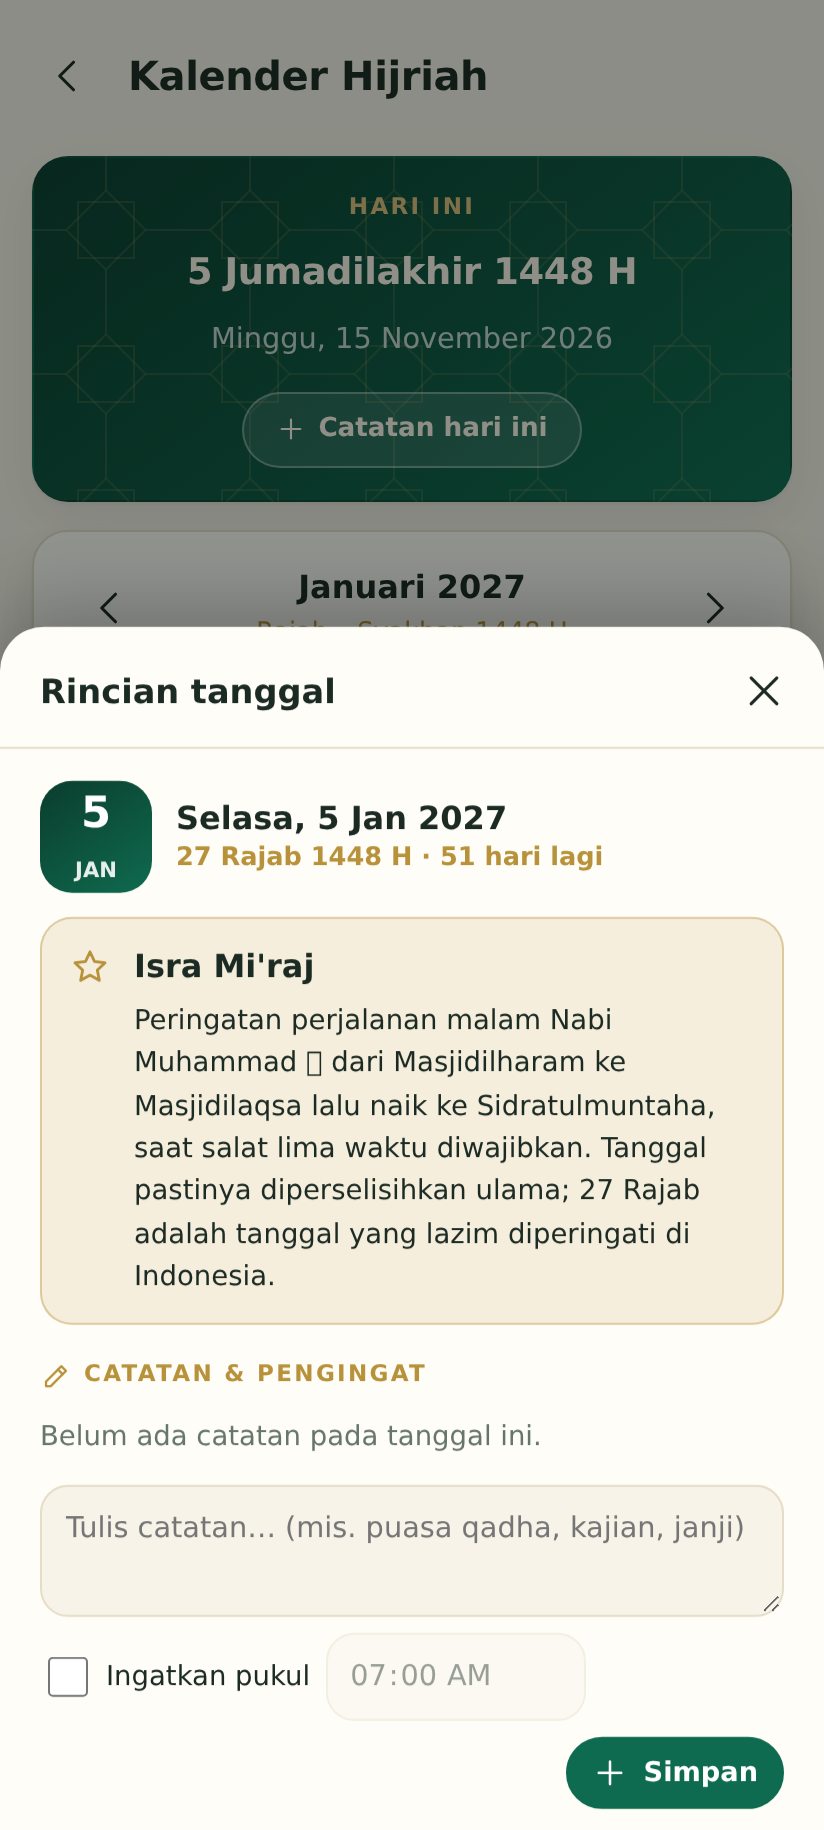
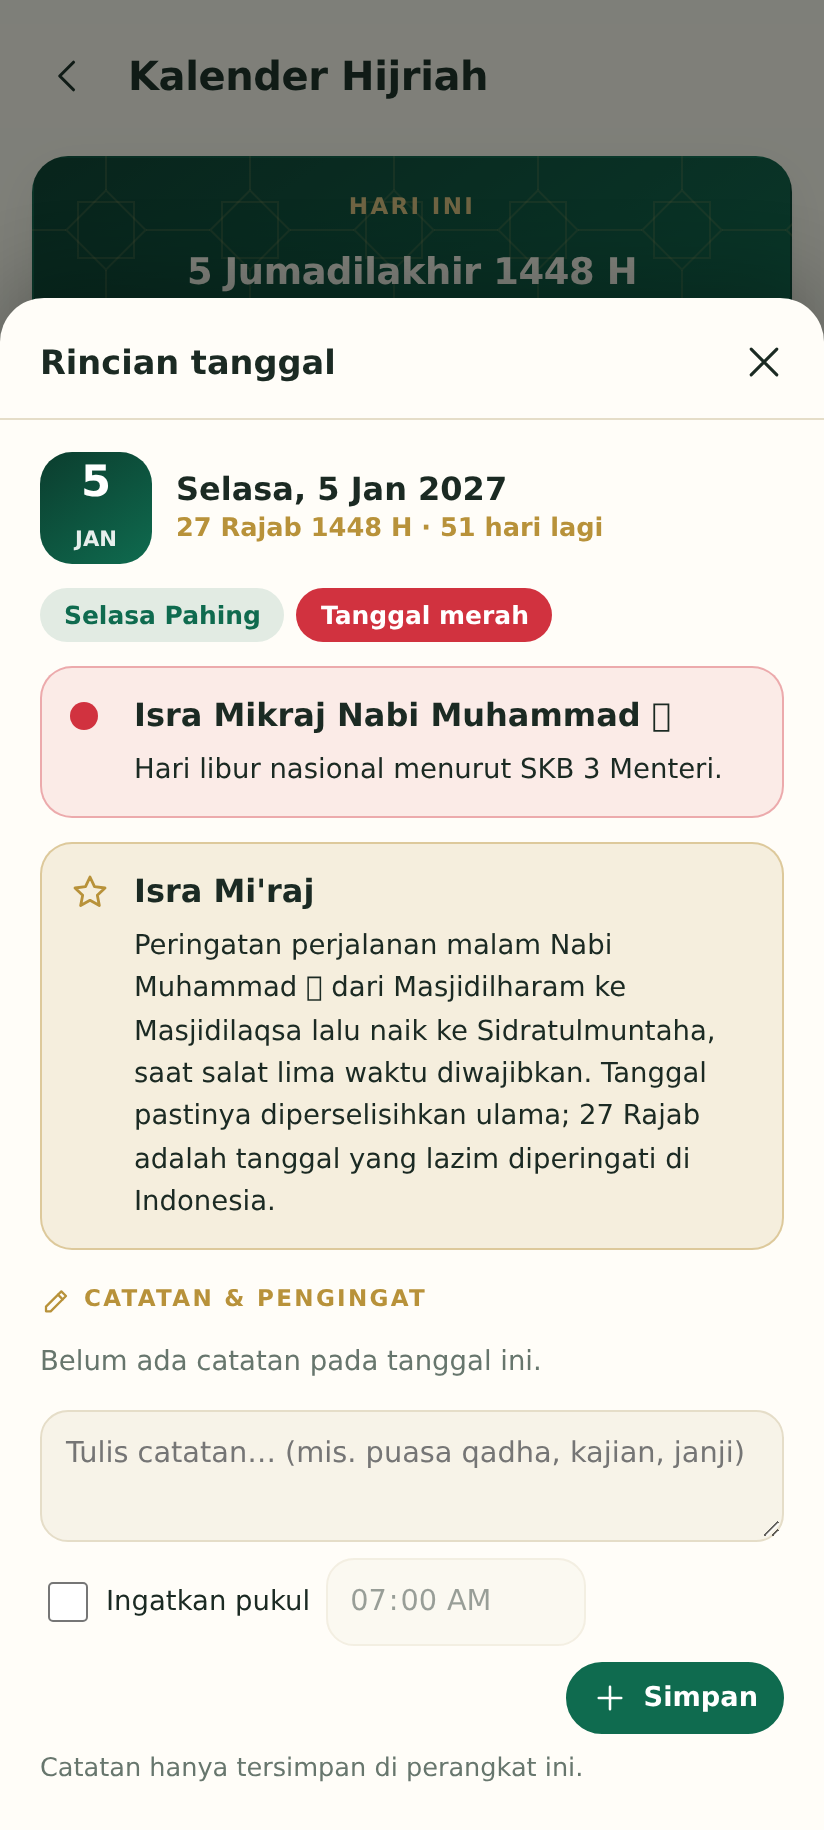
1.3.15: kalender — tanggal merah (SKB 2026/2027), cuti bersama 2027, pasaran Jawa

diff --git a/src/pages/calendar.js b/src/pages/calendar.js
@@ -6,6 +6,8 @@ import { getSettings } from '../services/storage.js'
 import { dayKey, notesOf, noteDays, saveNote, deleteNote } from '../services/calendar-notes.js'
 import { requestNotifPermission, notifPermission, notifSupported } from '../services/notification.js'
 import { toHijri, HIJRI_MONTHS, islamicDayOf, dayNotes, formatHijri } from '../utils/hijri.js'
+import { weton, pasaranOf } from '../utils/javanese.js'
+import { holidayOf, hasOfficial } from '../data/libur-nasional.js'
 import { formatGregorian } from '../utils/format.js'
 import { $, esc, toast } from '../utils/helpers.js'
 
@@ -57,30 +59,36 @@ export default function calendar(root) {
       const h = toHijri(date, adj)
       const ev = islamicDayOf(h)
       const mark = marks[key]
-      if (ev) events.push({ d, h, name: ev.name, key })
+      const hol = holidayOf(date, adj)
+      const red = date.getDay() === 0 || (hol && hol.type === 'libur')
+      if (hol) events.push({ d, key, name: hol.name, sub: hol.type === 'cuti' ? 'Cuti bersama' : hol.official ? 'Libur nasional' : 'Libur nasional (perkiraan)', cls: hol.type === 'cuti' ? 'cuti' : 'red' })
+      if (ev) events.push({ d, key, name: ev.name, sub: `${h.day} ${HIJRI_MONTHS[h.month - 1]} ${h.year} H`, cls: '' })
       if (mark) notesOf(key).forEach((n) => monthNotes.push({ d, key, n }))
       const isToday = date.toDateString() === today.toDateString()
-      const label = `${formatGregorian(date)}${ev ? ', ' + ev.name : ''}${mark ? `, ${mark.count} catatan` : ''}`
+      const label = `${formatGregorian(date)} ${pasaranOf(date)}${hol ? ', ' + hol.name : ''}${ev ? ', ' + ev.name : ''}${mark ? `, ${mark.count} catatan` : ''}`
       cells.push(
-        `<button type="button" class="cal-cell ${isToday ? 'today' : ''} ${ev ? 'event' : ''} ${date.getDay() === 5 ? 'friday' : ''}" data-day="${key}" aria-label="${esc(label)}"><b>${d}</b><small>${h.day}${h.day === 1 ? ' ' + HIJRI_MONTHS[h.month - 1].slice(0, 3) : ''}</small>${ev || mark ? `<i class="cal-dots">${ev ? '<i class="dot ev"></i>' : ''}${mark ? `<i class="dot ${mark.remind ? 'rem' : 'nt'}"></i>` : ''}</i>` : ''}</button>`
+        `<button type="button" class="cal-cell ${isToday ? 'today' : ''} ${ev ? 'event' : ''} ${date.getDay() === 5 ? 'friday' : ''} ${red ? 'red' : ''} ${hol && hol.type === 'cuti' ? 'cuti' : ''}" data-day="${key}" aria-label="${esc(label)}"><b>${d}</b><small>${h.day}${h.day === 1 ? ' ' + HIJRI_MONTHS[h.month - 1].slice(0, 3) : ''}</small>${ev || mark || hol ? `<i class="cal-dots">${hol ? `<i class="dot ${hol.type === 'cuti' ? 'ct' : 'hl'}"></i>` : ''}${ev ? '<i class="dot ev"></i>' : ''}${mark ? `<i class="dot ${mark.remind ? 'rem' : 'nt'}"></i>` : ''}</i>` : ''}</button>`
       )
     }
     const title = new Intl.DateTimeFormat('id-ID', { month: 'long', year: 'numeric' }).format(first)
     const hTitle = hFirst.month === hLast.month ? `${HIJRI_MONTHS[hFirst.month - 1]} ${hFirst.year} H` : `${HIJRI_MONTHS[hFirst.month - 1]} – ${HIJRI_MONTHS[hLast.month - 1]} ${hLast.year} H`
     const mon = new Intl.DateTimeFormat('id-ID', { month: 'short' }).format(first)
     const todayEv = islamicDayOf(toHijri(today, adj))
+    const todayHol = holidayOf(today, adj)
     const next = upcoming(today, adj)
     body.innerHTML = `
-      <section class="card ornament prayer-card cal-hero"><p class="eyebrow">Hari ini</p><h2>${esc(formatHijri(today, adj))}</h2><p class="np-sub">${esc(formatGregorian(today))}</p>
+      <section class="card ornament prayer-card cal-hero"><p class="eyebrow">Hari ini</p><h2>${esc(formatHijri(today, adj))}</h2><p class="np-sub">${esc(formatGregorian(today))} · ${esc(pasaranOf(today))}</p>
+        ${todayHol ? `<span class="cal-chip red">${esc(todayHol.name)}</span>` : ''}
         ${todayEv ? `<span class="cal-chip">${icon('star')}${esc(todayEv.name)}</span>` : ''}
         <button type="button" class="cal-hero-btn" data-day="${dayKey(today)}">${icon('plus')}Catatan hari ini</button></section>
       <section class="card cal-card"><div class="cal-head"><button class="icon-btn" data-m="-1" aria-label="Bulan sebelumnya">${icon('back')}</button><div><strong>${esc(title)}</strong><small>${esc(hTitle)}</small></div><button class="icon-btn" data-m="1" aria-label="Bulan berikutnya">${icon('forward')}</button></div>
         <div class="cal-grid cal-week">${['Sen', 'Sel', 'Rab', 'Kam', 'Jum', 'Sab', 'Ahd'].map((d) => `<span>${d}</span>`).join('')}</div>
         <div class="cal-grid" data-grid>${cells.join('')}</div>
-        <div class="cal-legend"><span><i class="dot ev"></i>Hari besar</span><span><i class="dot nt"></i>Catatan</span><span><i class="dot rem"></i>Pengingat</span><button class="btn sm" data-today>Bulan ini</button></div>
+        <div class="cal-legend"><span><i class="dot hl"></i>Tanggal merah</span><span><i class="dot ev"></i>Hari besar Islam</span><span><i class="dot nt"></i>Catatan</span><span><i class="dot rem"></i>Pengingat</span><button class="btn sm" data-today>Bulan ini</button></div>
         <p class="hint center">Ketuk tanggal untuk melihat keterangan dan menambah catatan.</p></section>
-      <section class="card"><p class="eyebrow">${icon('star')} Hari besar bulan ini</p>
-        ${events.length ? `<ul class="cal-list">${events.map((e) => `<li><button type="button" data-day="${e.key}"><span class="cal-date"><b>${e.d}</b><small>${esc(mon)}</small></span><span class="cal-item"><strong>${esc(e.name)}</strong><small>${e.h.day} ${HIJRI_MONTHS[e.h.month - 1]} ${e.h.year} H</small></span><span class="cal-go" aria-hidden="true">›</span></button></li>`).join('')}</ul>` : '<p class="muted">Tidak ada hari besar pada bulan ini.</p>'}</section>
+      <section class="card"><p class="eyebrow">${icon('star')} Tanggal merah & hari besar bulan ini</p>
+        ${events.length ? `<ul class="cal-list">${events.map((e) => `<li><button type="button" data-day="${e.key}"><span class="cal-date ${e.cls}"><b>${e.d}</b><small>${esc(mon)}</small></span><span class="cal-item"><strong>${esc(e.name)}</strong><small>${esc(e.sub)}</small></span><span class="cal-go" aria-hidden="true">›</span></button></li>`).join('')}</ul>` : '<p class="muted">Tidak ada tanggal merah atau hari besar pada bulan ini.</p>'}
+        <p class="hint">${hasOfficial(y) ? `Libur nasional ${y} mengikuti SKB 3 Menteri${y === 2026 ? ' (cuti bersama belum dimuat)' : ''}; pemerintah dapat mengubahnya.` : `Daftar resmi libur nasional ${y} belum tersedia di aplikasi: tanggal merah tahun ini adalah perkiraan, tanpa Imlek, Nyepi, dan Waisak.`}</p></section>
       ${monthNotes.length ? `<section class="card"><p class="eyebrow">${icon('note')} Catatan bulan ini</p><ul class="cal-list">${monthNotes.map(({ d, key, n }) => `<li><button type="button" data-day="${key}"><span class="cal-date note"><b>${d}</b><small>${esc(mon)}</small></span><span class="cal-item"><strong>${esc(n.text)}</strong>${n.remind ? `<small>${icon('clock')}Pengingat ${esc(n.time)}</small>` : ''}</span><span class="cal-go" aria-hidden="true">›</span></button></li>`).join('')}</ul></section>` : ''}
       <section class="card"><p class="eyebrow">${icon('calendar')} Hari besar terdekat</p>
         <ul class="cal-list">${next.map((e) => `<li><button type="button" data-day="${dayKey(e.date)}"><span class="cal-date soon"><b>${e.in}</b><small>hari</small></span><span class="cal-item"><strong>${esc(e.ev.name)}</strong><small>${esc(shortDate(e.date))}${e.in === 0 ? ' · hari ini' : ''}</small></span><span class="cal-go" aria-hidden="true">›</span></button></li>`).join('')}</ul>
@@ -93,6 +101,7 @@ export default function calendar(root) {
     const date = new Date(yy, mm - 1, dd)
     const h = toHijri(date, adj)
     const ev = islamicDayOf(h)
+    const hol = holidayOf(date, adj)
     const extras = dayNotes(date, h)
     const diff = Math.round((new Date(yy, mm - 1, dd) - new Date(today.getFullYear(), today.getMonth(), today.getDate())) / DAY)
     const when = diff === 0 ? 'Hari ini' : diff === 1 ? 'Besok' : diff === -1 ? 'Kemarin' : diff > 0 ? `${diff} hari lagi` : `${-diff} hari lalu`
@@ -107,9 +116,11 @@ export default function calendar(root) {
     const content = `<div class="day-sheet">
       <div class="day-top"><span class="day-num"><b>${dd}</b><small>${esc(new Intl.DateTimeFormat('id-ID', { month: 'short' }).format(date))}</small></span>
         <div><strong>${esc(new Intl.DateTimeFormat('id-ID', { weekday: 'long' }).format(date))}, ${esc(shortDate(date))}</strong><small>${h.day} ${HIJRI_MONTHS[h.month - 1]} ${h.year} H · ${when}</small></div></div>
+      <div class="day-chips"><span class="day-chip weton" data-weton>${esc(weton(date))}</span>${hol ? `<span class="day-chip ${hol.type === 'cuti' ? 'cuti' : 'red'}">${hol.type === 'cuti' ? 'Cuti bersama' : 'Tanggal merah'}</span>` : date.getDay() === 0 ? '<span class="day-chip red">Hari Minggu</span>' : ''}</div>
+      ${hol ? `<div class="day-event red"><span class="day-flag" aria-hidden="true"></span><div><strong>${esc(hol.name)}</strong><p>${hol.type === 'cuti' ? 'Cuti bersama' : 'Hari libur nasional'}${hol.official ? ' menurut SKB 3 Menteri.' : ' — perkiraan; daftar resmi tahun ini belum tersedia di aplikasi.'}</p></div></div>` : ''}
       ${ev ? `<div class="day-event">${icon('star')}<div><strong>${esc(ev.name)}</strong><p>${esc(ev.desc || '')}</p></div></div>` : ''}
       ${extras.length ? `<ul class="day-tags">${extras.map((x) => `<li><b>${esc(x.label)}</b><span>${esc(x.desc)}</span></li>`).join('')}</ul>` : ''}
-      ${!ev && !extras.length ? '<p class="muted day-plain">Tidak ada hari besar pada tanggal ini.</p>' : ''}
+      ${!ev && !hol && !extras.length ? '<p class="muted day-plain">Tidak ada hari besar pada tanggal ini.</p>' : ''}
       <p class="eyebrow day-eyebrow">${icon('note')} Catatan & pengingat</p>
       <div data-notes>${notesHtml()}</div>
       <form class="day-form" data-form novalidate>

diff --git a/src/data/libur-nasional.js b/src/data/libur-nasional.js
@@ -1,0 +1,126 @@
+// Hari libur nasional & cuti bersama Indonesia.
+// Tahun yang ada di RESMI diambil dari SKB 3 Menteri (Menag, Menaker, MenPANRB):
+//   2026 — SKB No. 1497/2025, 2/2025, 5/2025 (19 September 2025)
+//   2027 — SKB No. 1205/2026, 3/2026, 2/2026 (15 September 2026)
+// Tahun lain dihitung (PERKIRAAN): tanggal tetap + Paskah (hitungan Gregorian) + hari besar Islam menurut kalender
+// Hijriah aplikasi. Imlek, Nyepi, dan Waisak tidak dihitung untuk tahun tanpa data resmi.
+// Pemerintah dapat mengubah SKB (terutama Idulfitri/Iduladha yang ditetapkan lewat sidang isbat).
+import { toHijri } from '../utils/hijri.js'
+
+const RESMI = {
+  2026: {
+    libur: {
+      '01-01': 'Tahun Baru 2026 Masehi',
+      '01-16': 'Isra Mikraj Nabi Muhammad ﷺ',
+      '02-17': 'Tahun Baru Imlek 2577 Kongzili',
+      '03-19': 'Hari Suci Nyepi (Tahun Baru Saka 1948)',
+      '03-21': 'Idulfitri 1447 H',
+      '03-22': 'Idulfitri 1447 H (hari kedua)',
+      '04-03': 'Wafat Yesus Kristus',
+      '04-05': 'Kebangkitan Yesus Kristus (Paskah)',
+      '05-01': 'Hari Buruh Internasional',
+      '05-14': 'Kenaikan Yesus Kristus',
+      '05-27': 'Iduladha 1447 H',
+      '05-31': 'Hari Raya Waisak 2570 BE',
+      '06-01': 'Hari Lahir Pancasila',
+      '06-16': 'Tahun Baru Islam 1 Muharam 1448 H',
+      '08-17': 'Proklamasi Kemerdekaan RI',
+      '08-25': 'Maulid Nabi Muhammad ﷺ',
+      '12-25': 'Kelahiran Yesus Kristus (Natal)'
+    },
+    cuti: null // daftar cuti bersama 2026 tidak dimuat
+  },
+  2027: {
+    libur: {
+      '01-01': 'Tahun Baru 2027 Masehi',
+      '01-05': 'Isra Mikraj Nabi Muhammad ﷺ',
+      '02-06': 'Tahun Baru Imlek 2578 Kongzili',
+      '03-08': 'Hari Suci Nyepi (Tahun Baru Saka 1949)',
+      '03-10': 'Idulfitri 1448 H',
+      '03-11': 'Idulfitri 1448 H (hari kedua)',
+      '03-26': 'Wafat Yesus Kristus',
+      '03-28': 'Kebangkitan Yesus Kristus (Paskah)',
+      '05-01': 'Hari Buruh Internasional',
+      '05-06': 'Kenaikan Yesus Kristus',
+      '05-17': 'Iduladha 1448 H',
+      '05-20': 'Hari Raya Waisak 2571 BE',
+      '06-01': 'Hari Lahir Pancasila',
+      '06-06': 'Tahun Baru Islam 1 Muharam 1449 H',
+      '08-15': 'Maulid Nabi Muhammad ﷺ',
+      '08-17': 'Proklamasi Kemerdekaan RI',
+      '12-25': 'Kelahiran Yesus Kristus (Natal)',
+      '12-26': 'Isra Mikraj Nabi Muhammad ﷺ (1449 H)'
+    },
+    cuti: {
+      '02-05': 'Cuti bersama Tahun Baru Imlek',
+      '03-09': 'Cuti bersama Idulfitri',
+      '03-12': 'Cuti bersama Idulfitri',
+      '03-15': 'Cuti bersama Idulfitri',
+      '03-25': 'Cuti bersama Wafat Yesus Kristus',
+      '05-18': 'Cuti bersama Iduladha',
+      '05-19': 'Cuti bersama Waisak',
+      '12-24': 'Cuti bersama Natal'
+    }
+  }
+}
+
+export const hasOfficial = (year) => !!RESMI[year]
+
+/** Minggu Paskah (kalender Gregorian, algoritma Meeus/Jones/Butcher). */
+export function easter(year) {
+  const a = year % 19
+  const b = Math.floor(year / 100)
+  const c = year % 100
+  const d = Math.floor(b / 4)
+  const e = b % 4
+  const f = Math.floor((b + 8) / 25)
+  const g = Math.floor((b - f + 1) / 3)
+  const h = (19 * a + b - d - g + 15) % 30
+  const i = Math.floor(c / 4)
+  const k = c % 4
+  const l = (32 + 2 * e + 2 * i - h - k) % 7
+  const m = Math.floor((a + 11 * h + 22 * l) / 451)
+  const month = Math.floor((h + l - 7 * m + 114) / 31)
+  const day = ((h + l - 7 * m + 114) % 31) + 1
+  return new Date(year, month - 1, day)
+}
+
+const FIXED = { '01-01': 'Tahun Baru Masehi', '05-01': 'Hari Buruh Internasional', '06-01': 'Hari Lahir Pancasila', '08-17': 'Proklamasi Kemerdekaan RI', '12-25': 'Kelahiran Yesus Kristus (Natal)' }
+const HIJRI_LIBUR = { '1-1': 'Tahun Baru Islam', '3-12': 'Maulid Nabi Muhammad ﷺ', '7-27': 'Isra Mikraj Nabi Muhammad ﷺ', '10-1': 'Idulfitri', '10-2': 'Idulfitri (hari kedua)', '12-10': 'Iduladha' }
+const mmdd = (d) => `${String(d.getMonth() + 1).padStart(2, '0')}-${String(d.getDate()).padStart(2, '0')}`
+const cache = new Map()
+
+function estimated(year, adj) {
+  const k = `${year}|${adj}`
+  if (cache.has(k)) return cache.get(k)
+  const out = { ...FIXED }
+  const e = easter(year)
+  const off = (n) => mmdd(new Date(year, e.getMonth(), e.getDate() + n))
+  out[off(-2)] = 'Wafat Yesus Kristus'
+  out[off(0)] = 'Kebangkitan Yesus Kristus (Paskah)'
+  out[off(39)] = 'Kenaikan Yesus Kristus'
+  for (let d = new Date(year, 0, 1); d.getFullYear() === year; d = new Date(year, d.getMonth(), d.getDate() + 1)) {
+    const h = toHijri(d, adj)
+    const name = h && HIJRI_LIBUR[`${h.month}-${h.day}`]
+    if (name) out[mmdd(d)] = out[mmdd(d)] ? `${out[mmdd(d)]} · ${name}` : name
+  }
+  cache.set(k, out)
+  return out
+}
+
+/**
+ * Keterangan libur untuk suatu tanggal.
+ * @returns {{name:string, type:'libur'|'cuti', official:boolean}|null}
+ */
+export function holidayOf(date, adj = 0) {
+  const y = date.getFullYear()
+  const key = mmdd(date)
+  const r = RESMI[y]
+  if (r) {
+    if (r.libur[key]) return { name: r.libur[key], type: 'libur', official: true }
+    if (r.cuti && r.cuti[key]) return { name: r.cuti[key], type: 'cuti', official: true }
+    return null
+  }
+  const name = estimated(y, adj)[key]
+  return name ? { name, type: 'libur', official: false } : null
+}

diff --git a/src/styles/main.css b/src/styles/main.css
@@ -4078,3 +4078,70 @@ button.cal-cell:focus-visible {
 .day-form .hint {
   margin: 0;
 }
+
+/* ===== Kalender 1.3.15: tanggal merah, cuti bersama, pasaran Jawa ===== */
+.cal-cell.red b {
+  color: #d1323f;
+}
+.cal-cell.cuti b {
+  color: #d9822b;
+}
+.cal-cell.today.red b,
+.cal-cell.today.cuti b {
+  color: #ffd9dc;
+}
+.cal-week span:last-child {
+  color: #d1323f;
+}
+.dot.hl {
+  background: #d1323f;
+}
+.dot.ct {
+  background: #d9822b;
+}
+.cal-date.red {
+  color: #fff;
+  background: linear-gradient(145deg, #d1323f, #e2606a);
+}
+.cal-date.cuti {
+  color: #fff;
+  background: linear-gradient(145deg, #d9822b, #eaa35a);
+}
+.cal-chip.red {
+  background: rgba(209, 50, 63, 0.85);
+}
+.day-chips {
+  display: flex;
+  flex-wrap: wrap;
+  gap: 6px;
+}
+.day-chip {
+  padding: 4px 12px;
+  border-radius: 999px;
+  font-size: 0.78rem;
+  font-weight: 700;
+  background: var(--surface-2);
+}
+.day-chip.weton {
+  color: var(--primary);
+  background: color-mix(in srgb, var(--primary) 12%, transparent);
+}
+.day-chip.red {
+  color: #fff;
+  background: #d1323f;
+}
+.day-chip.cuti {
+  color: #fff;
+  background: #d9822b;
+}
+.day-event.red {
+  background: color-mix(in srgb, #d1323f 9%, var(--surface));
+  border-color: color-mix(in srgb, #d1323f 35%, transparent);
+}
+.day-flag {
+  width: 14px;
+  height: 14px;
+  margin-top: 5px;
+  border-radius: 50%;
+  background: #d1323f;
+}

diff --git a/src/utils/javanese.js b/src/utils/javanese.js
@@ -1,0 +1,13 @@
+// Pasaran Jawa (pancawara): siklus 5 hari Legi → Pahing → Pon → Wage → Kliwon, berjalan tanpa putus.
+// Acuan yang dipakai dan saling cocok: 17 Agustus 1945 = Jumat Legi; 6 Juni 1901 = Kamis Pon; 1 Januari 1970 = Kamis Wage.
+export const PASARAN = ['Legi', 'Pahing', 'Pon', 'Wage', 'Kliwon']
+export const HARI = ['Minggu', 'Senin', 'Selasa', 'Rabu', 'Kamis', 'Jumat', 'Sabtu']
+
+/** Pasaran untuk tanggal kalender lokal `date`. */
+export function pasaranOf(date) {
+  const n = Math.round(Date.UTC(date.getFullYear(), date.getMonth(), date.getDate()) / 86400000)
+  return PASARAN[(((n + 3) % 5) + 5) % 5]
+}
+
+/** Contoh: "Jumat Kliwon". */
+export const weton = (date) => `${HARI[date.getDay()]} ${pasaranOf(date)}`

diff --git a/docs/STATUS.md b/docs/STATUS.md
@@ -176,3 +176,9 @@ Pita tipis berisi teks berjalan (petunjuk bila pembayaran blank; ketuk untuk mem
 - Tanda titik di sel (hari besar/catatan/pengingat), daftar "Catatan bulan ini" dan "Hari besar terdekat".
 - Keterangan hari besar disusun dari pengetahuan umum; **belum ditinjau ustaz**.
 - Uji: `tests/calendar.test.mjs`, `tests/e2e/calendar.mjs`.
+
+## 1.3.15 — Kalender: tanggal merah & pasaran Jawa
+
+- Pasaran (Legi, Pahing, Pon, Wage, Kliwon) dihitung dari siklus 5 hari; acuan uji: 17-8-1945 Jumat Legi, 6-6-1901 Kamis Pon, 1-1-1970 Kamis Wage, 14-2-2024 Rabu Legi (`src/utils/javanese.js`).
+- Libur nasional 2026 & 2027 dari SKB 3 Menteri, cuti bersama 2027 (`src/data/libur-nasional.js`). Cuti bersama 2026 tidak dimuat. Tahun lain: perkiraan (tanggal tetap, Paskah hitungan, hari besar Islam menurut kalender aplikasi), tanpa Imlek/Nyepi/Waisak — **perlu diperbarui tiap SKB baru terbit**.
+- Minggu & libur nasional berwarna merah; cuti bersama jingga.
